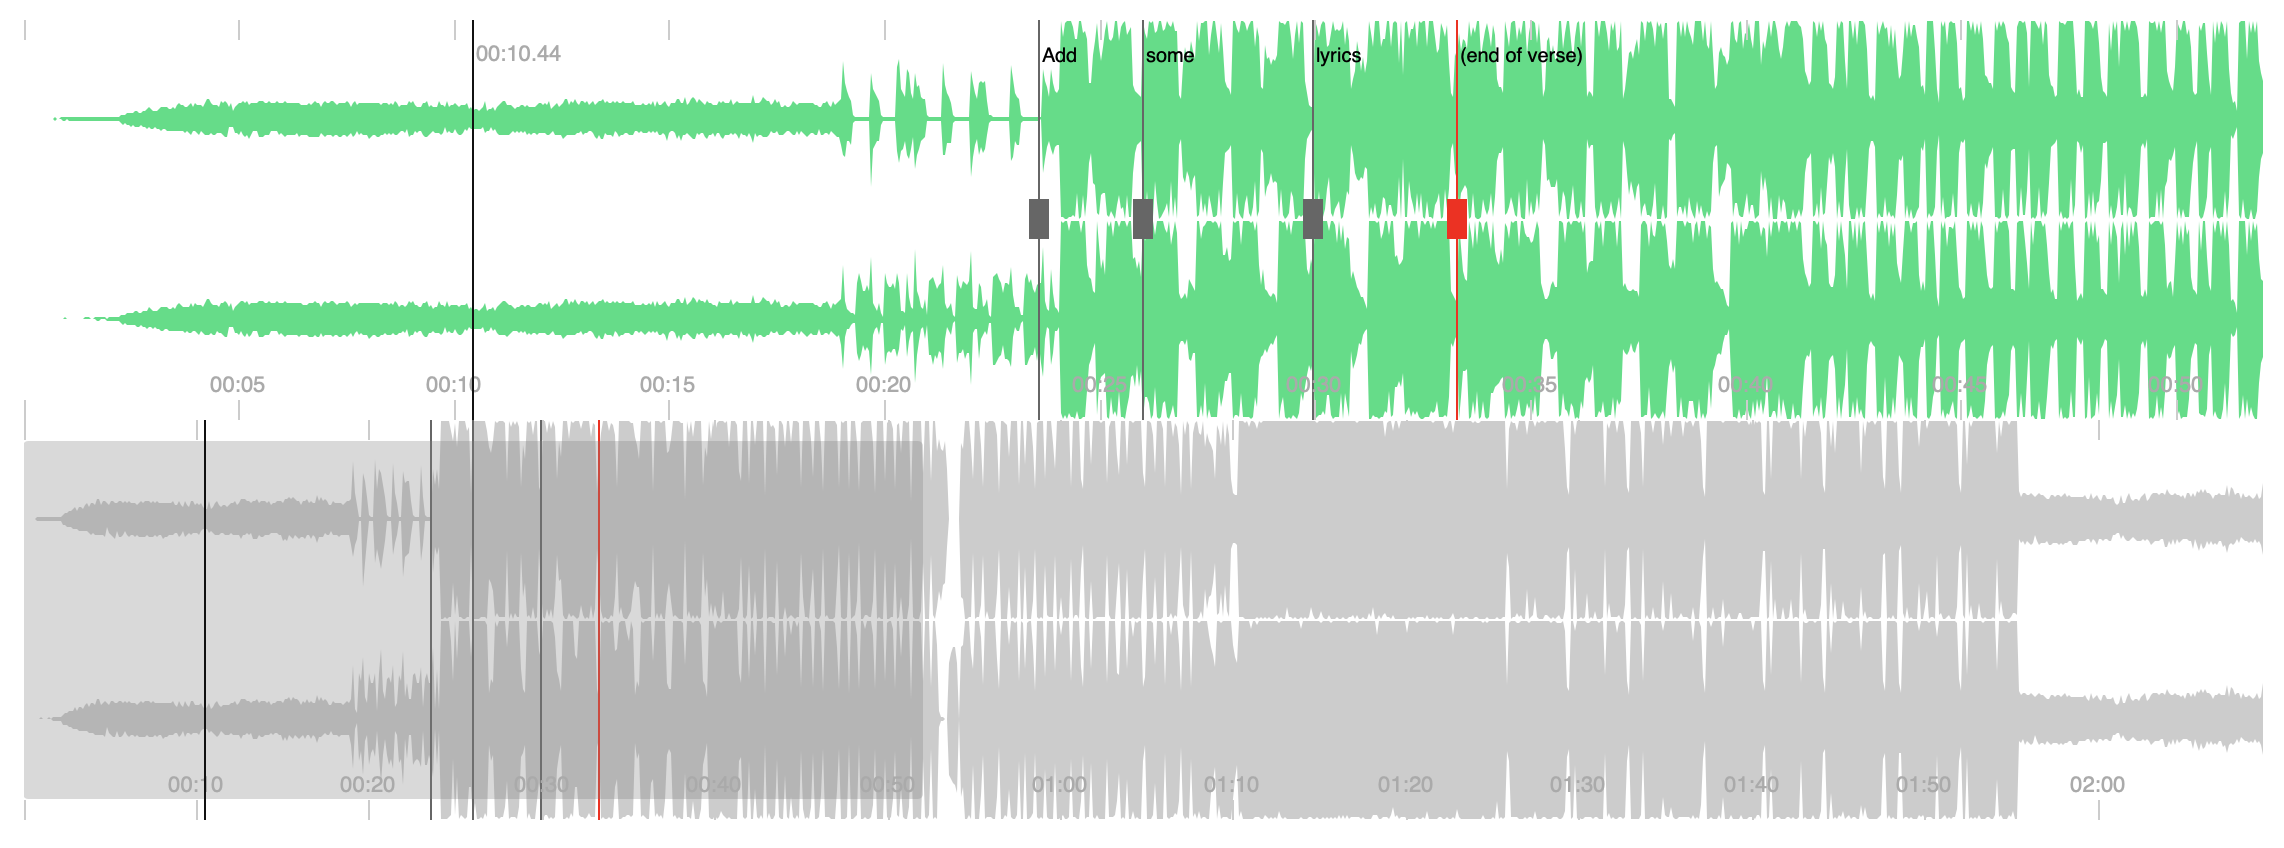
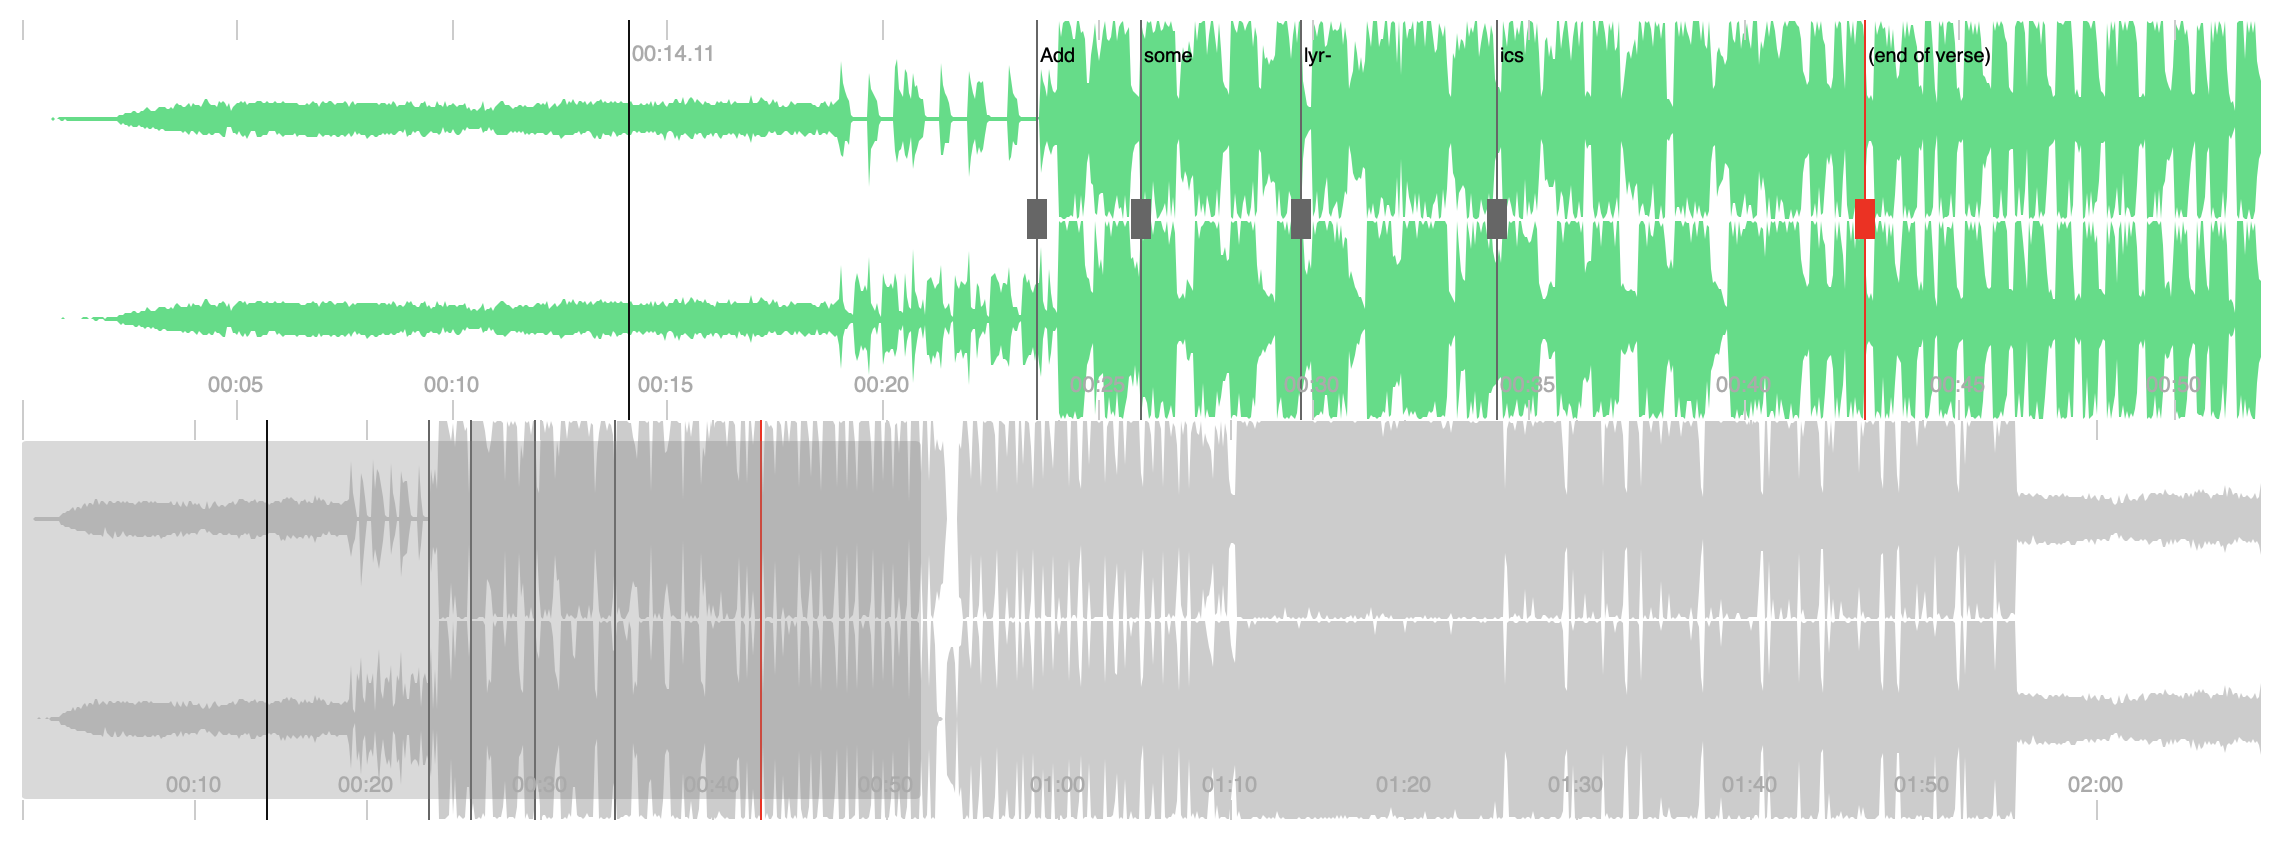
Updated README.md

diff --git a/README.md b/README.md
@@ -25,12 +25,7 @@ Serves as a replacement for
 
 ## Expected Lyric Syntax
 
-- To mark the start of a verse, capitalize the first letter of the first word in
-  the verse
-
-  ![verse](images/syntax_1.png)
-
 - To specify syllables in a word, add a lyric per syllable, specifying a **-**
   (hyphen) at the end of each lyric
 
-  ![syllables](images/syntax_2.png)
+  ![syllables](images/syntax_1.png)
